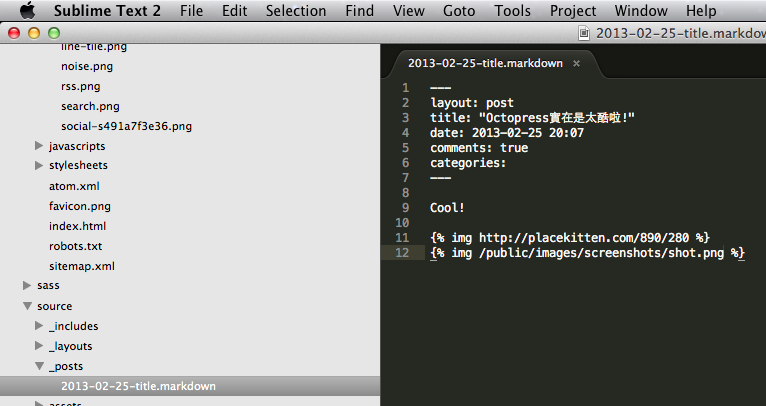
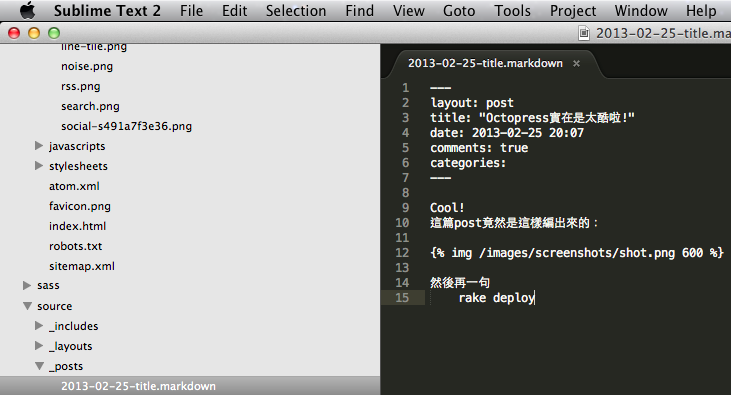
Site updated at 2013-02-25 13:11:32 UTC

Changed region(s): [[0.0, 0.0, 1.0, 1.0], [0.8427, 0.1823, 1.0, 0.2127]]

diff --git a/blog/2013/02/25/title/index.html b/blog/2013/02/25/title/index.html
@@ -53,7 +53,7 @@
     <p>Cool!
 這篇post竟然是這樣編出來的：</p>
 
-<p><img src="/images/screenshots/shot.png" width="60"></p>
+<p><img src="/images/screenshots/shot.png" width="600"></p>
 
 <p>然後再一句</p>
 

diff --git a/index.html b/index.html
@@ -56,7 +56,7 @@
     <p>Cool!
 這篇post竟然是這樣編出來的：</p>
 
-<p><img src="/images/screenshots/shot.png" width="60"></p>
+<p><img src="/images/screenshots/shot.png" width="600"></p>
 
 <p>然後再一句</p>
 
